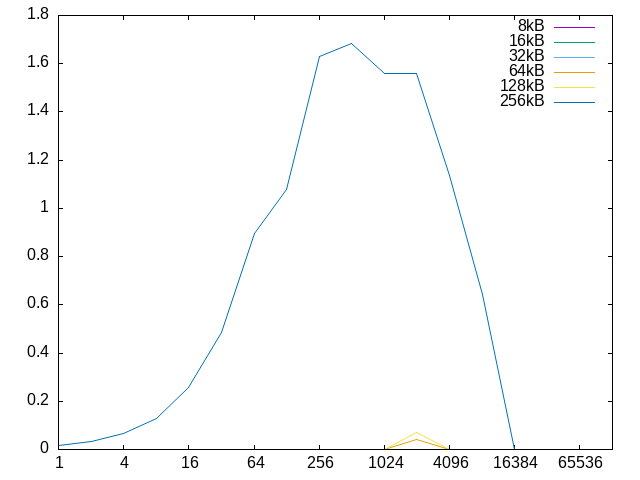
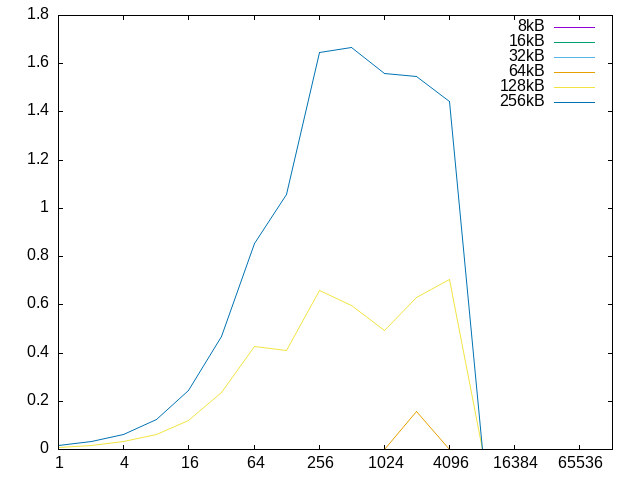
mm3 changes applied

diff --git a/lab2_kit/programas/mm3/mm3.c b/lab2_kit/programas/mm3/mm3.c
@@ -5,7 +5,7 @@
 #include <string.h>
 
 #define N 512
-#define CACHE_LINE_SIZE 1 // TODO: update this value
+#define CACHE_LINE_SIZE 64 // Block size found
 
 #define SUB_MATRIX_SIZE                                                        \
     (((CACHE_LINE_SIZE / sizeof(int16_t)) <= 0)                                \
@@ -24,9 +24,7 @@ void setup(int16_t m1[N][N], int16_t m2[N][N], int16_t m3[N][N]) {
     }
 }
 
-void multiply_matrices_by_blocks(int16_t const factor1[N][N],
-                                 int16_t const factor2[N][N],
-                                 int16_t res[N][N]) {
+void multiply_matrices_by_blocks(int16_t const factor1[N][N], int16_t const factor2[N][N], int16_t res[N][N]) {
     for (size_t i = 0; i < N; i += SUB_MATRIX_SIZE) {
         for (size_t j = 0; j < N; j += SUB_MATRIX_SIZE) {
             for (size_t k = 0; k < N; k += SUB_MATRIX_SIZE) {
